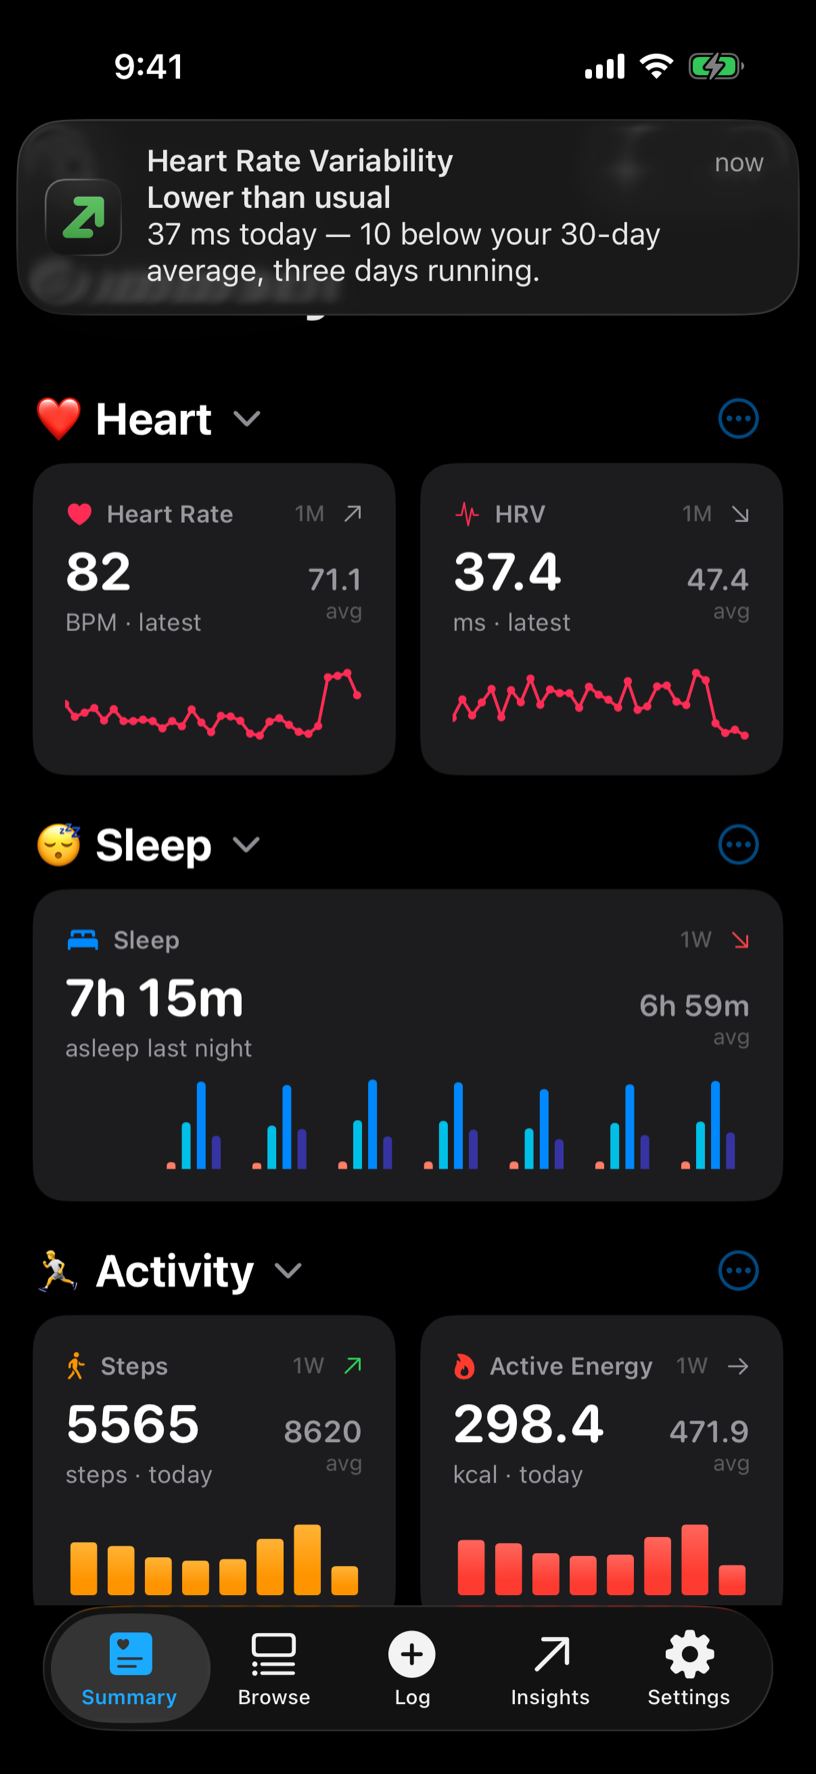
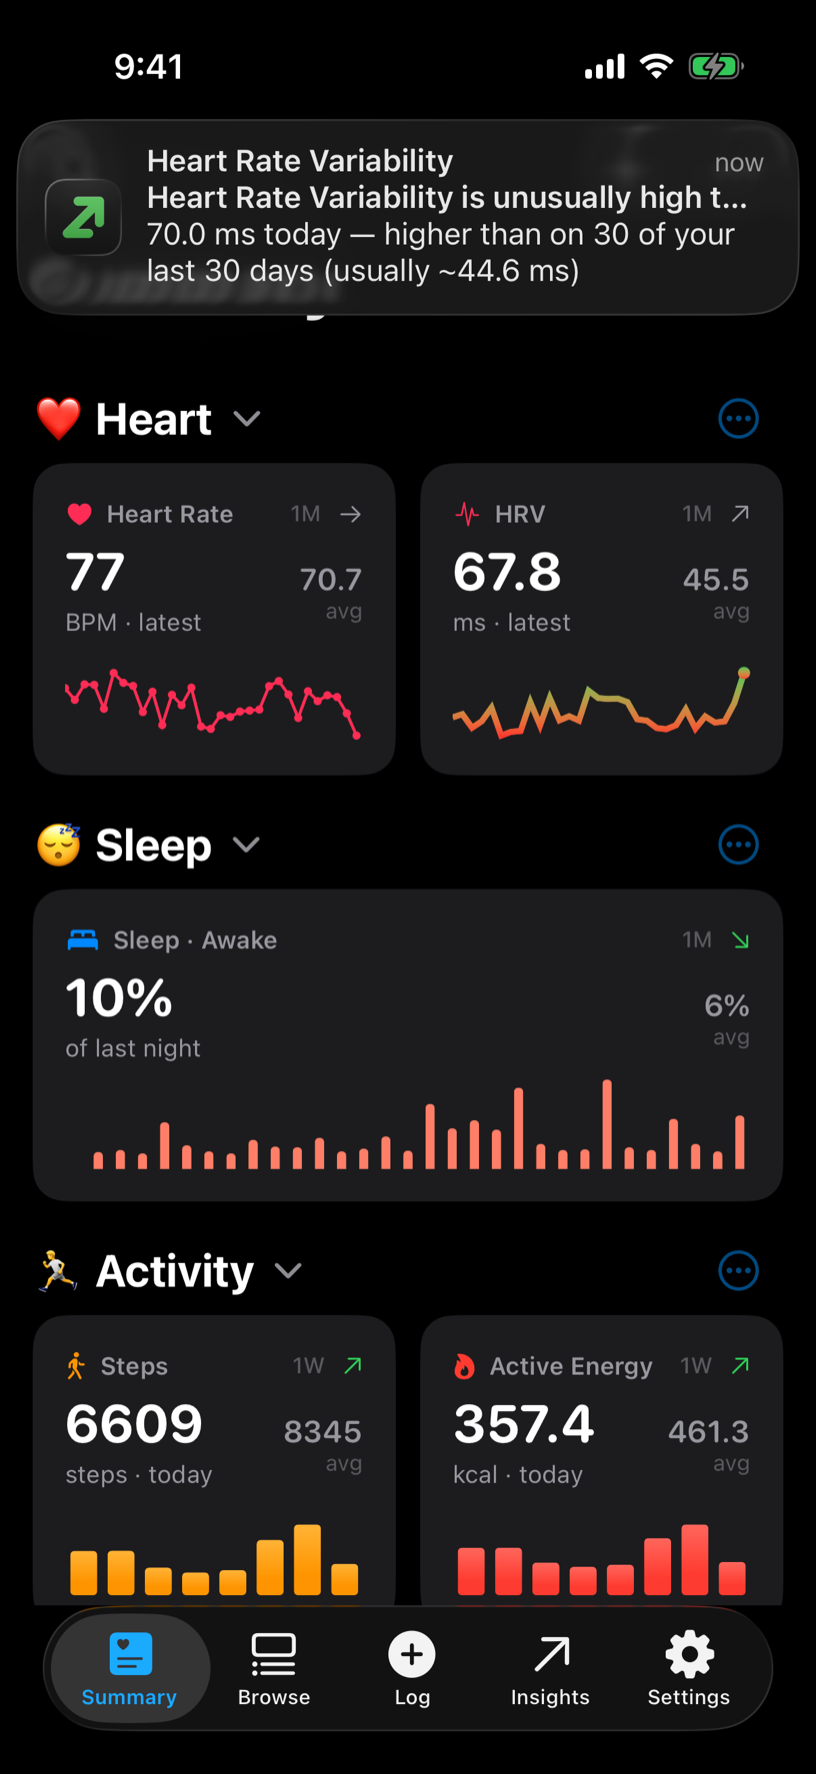
Refresh hero screenshot: positive HRV alert, Awake %, HRV gradient
The notification is now the app's own, generated by its Insights engine
(HRV unusually high). Sleep shows only the Awake stage as a share of each
night over a month; HRV uses a green-high / red-low gradient.

diff --git a/charts/index.html b/charts/index.html
@@ -618,7 +618,7 @@
             <picture>
               <source srcset="/assets/charts/summary-light.png" media="(prefers-color-scheme: light)" />
               <img src="/assets/charts/summary-dark.png" width="816" height="1774"
-                   alt="Charts on iPhone: the Summary screen grouped into Heart, Sleep and Activity sections, with a notification arriving — Heart Rate Variability is lower than usual, 37 ms today, 10 below the 30-day average." />
+                   alt="Charts on iPhone: the Summary screen grouped into Heart, Sleep and Activity sections, with a notification arriving — Heart Rate Variability is unusually high today, 70 ms, higher than on 30 of the last 30 days." />
             </picture>
           </div>
         </div>
